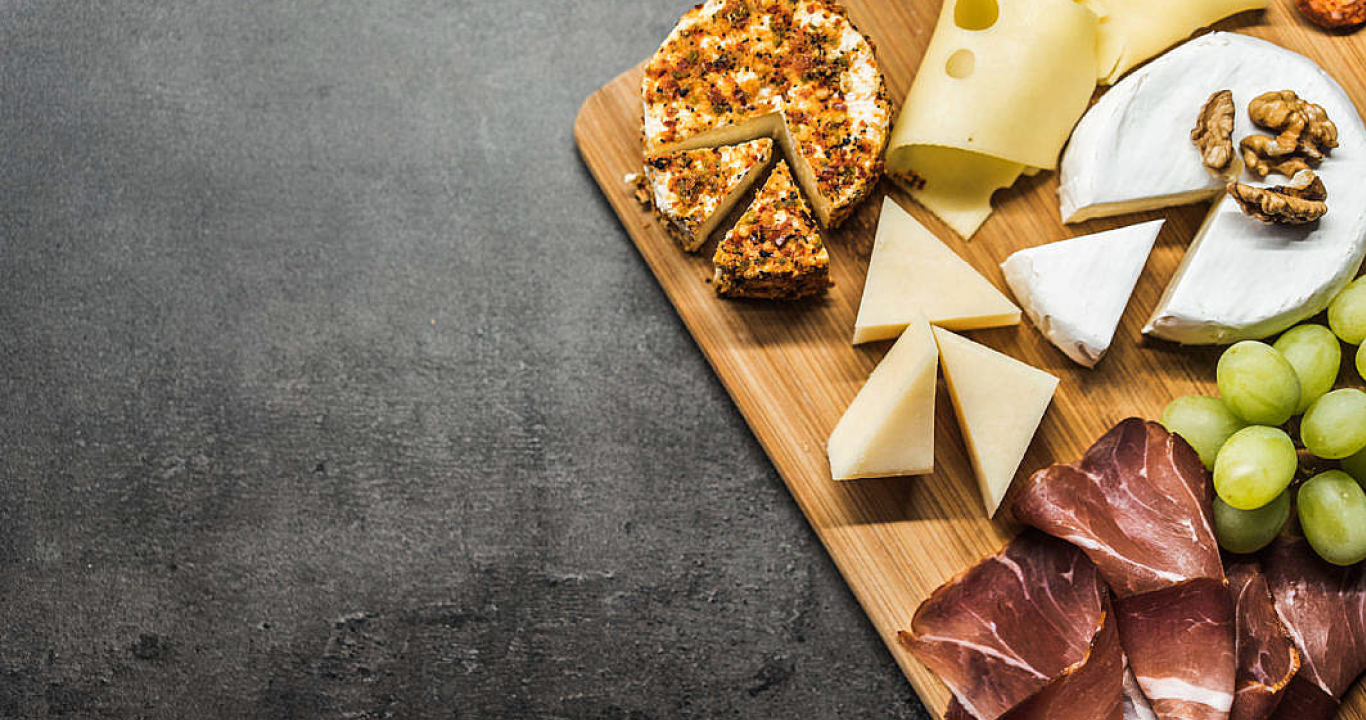
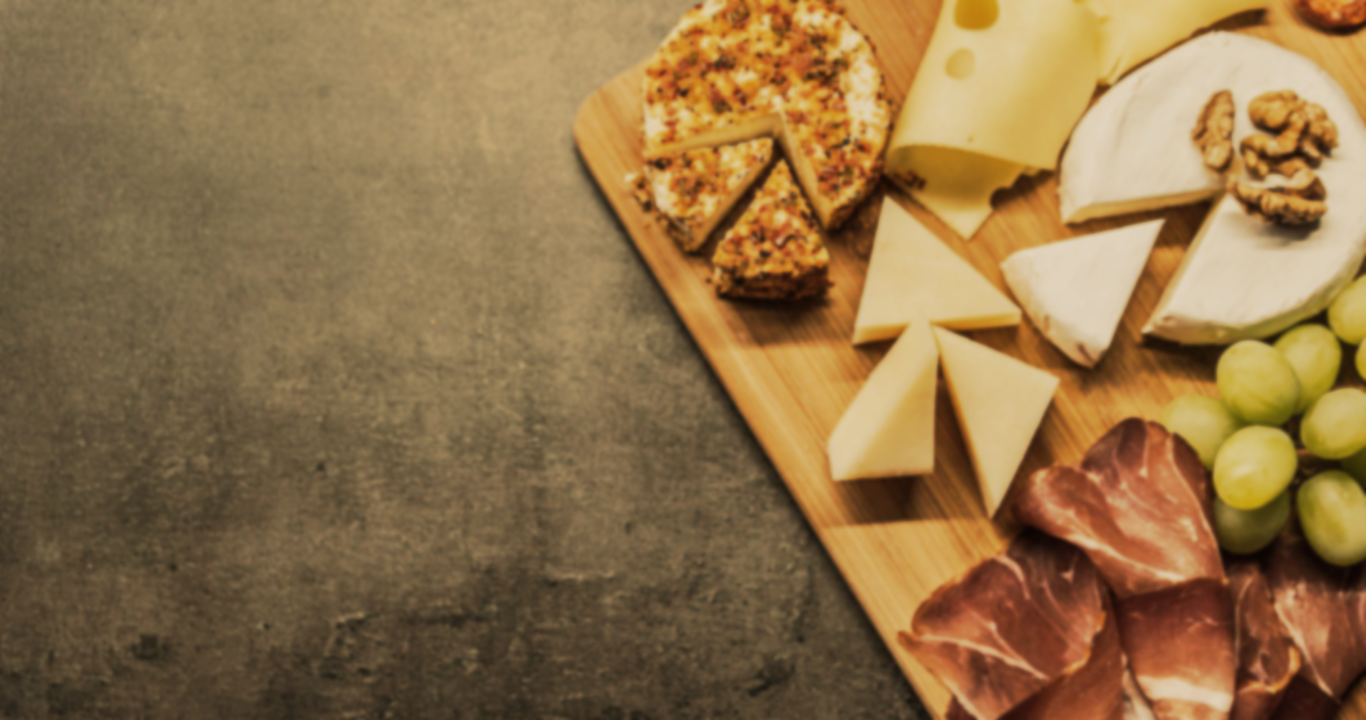
working on some styling while i work out some of the programming. Added a header/adjusted the background image color and file size.

diff --git a/assets/javascript/app.js b/assets/javascript/app.js
@@ -45,6 +45,69 @@ $(document).ready(function() {
                 {text: "Some Answer", isCorrect: false}
             ]
         },
+        { 	
+            question: "Some question",
+            answers: [
+                {text: "Some Answer", isCorrect: true},
+                {text: "Some Answer", isCorrect: false},
+                {text: "Some Answer", isCorrect: false},
+                {text: "Some Answer", isCorrect: false}
+            ]
+        },
+        { 	
+            question: "Some question",
+            answers: [
+                {text: "Some Answer", isCorrect: true},
+                {text: "Some Answer", isCorrect: false},
+                {text: "Some Answer", isCorrect: false},
+                {text: "Some Answer", isCorrect: false}
+            ]
+        },
+        { 	
+            question: "Some question",
+            answers: [
+                {text: "Some Answer", isCorrect: true},
+                {text: "Some Answer", isCorrect: false},
+                {text: "Some Answer", isCorrect: false},
+                {text: "Some Answer", isCorrect: false}
+            ]
+        },
+        { 	
+            question: "Some question",
+            answers: [
+                {text: "Some Answer", isCorrect: true},
+                {text: "Some Answer", isCorrect: false},
+                {text: "Some Answer", isCorrect: false},
+                {text: "Some Answer", isCorrect: false}
+            ]
+        },
+        { 	
+            question: "Some question",
+            answers: [
+                {text: "Some Answer", isCorrect: true},
+                {text: "Some Answer", isCorrect: false},
+                {text: "Some Answer", isCorrect: false},
+                {text: "Some Answer", isCorrect: false}
+            ]
+        },
+        { 	
+            question: "Some question",
+            answers: [
+                {text: "Some Answer", isCorrect: true},
+                {text: "Some Answer", isCorrect: false},
+                {text: "Some Answer", isCorrect: false},
+                {text: "Some Answer", isCorrect: false}
+            ]
+        },
+        { 	
+            question: "Some question",
+            answers: [
+                {text: "Some Answer", isCorrect: true},
+                {text: "Some Answer", isCorrect: false},
+                {text: "Some Answer", isCorrect: false},
+                {text: "Some Answer", isCorrect: false}
+            ]
+        },
     ]
 
     // HTML SET_UP Functions:
@@ -52,6 +115,19 @@ $(document).ready(function() {
     // generateHTML will set up the page
         // generateHTML will include the timer and the question for the game
         // this will also need the answers displayed and looped thru
+    function generateHTML() {
+        var timeRemainingText = "<p class='timerText text-center'>Time Remaining: <span id='timer'>20</span></p>";
+        var questionText = "<p class='questionText text-center'>" + questionArray[questionCounter].question + "</p>";
+        gameHTML = timeRemainingText + questionText;
+        $(".mainArea").html(gameHTML);
+        for (var i = 0; i < questionArray[questionCounter].answers.length; i++) {
+            var answerButton = $("<button>");
+            answerButton.addClass("answer btn btn-block text-center");
+            answerButton.attr("isCorrect", questionArray[questionCounter].answers[i].isCorrect);
+            answerButton.html(questionArray[questionCounter].answers[i].text);
+            $(".mainArea").append(answerButton);
+        }
+    }
 
      // WIN & LOSS Funcitons:
         // write functions for the outcomes of wins and losses
@@ -60,12 +136,50 @@ $(document).ready(function() {
         // these will also generate an image
         // these should also contain the setTimeOut for the pause between plays
         // there may have to be a seperate function for the timeout if player doesn't answer in time, thus adding to the unanswered count
+    function generateWin() {
+        correct++;
+        var correctAnswerText = "<p class='correctText text-center'>CORRECT!</p>";
+        var imgHTML = "<img class='center-block imgCorrect' src=''>";
+        gameHTML = correctAnswerText + imgHTML;
+        $(".mainArea").html(gameHTML);
+        setTimeout(nextDisplay, 3000);  
+    }
+
+    function generateLoss() {
+        incorrect++;
+        var wrongAnswerText = "<p class='wrongText text-center'>INCORRECT</p>";
+        var imgHTML = "<img class='center-block imgWrong' src=''>";
+        gameHTML = wrongAnswerText + imgHTML;
+        $(".mainArea").html(gameHTML);
+        setTimeout(nextDisplay, 3000); 
+    }
+    // TIMEOUT Function... for unanswered questions
+    function generateLossAtTimeOut() {
+		unanswered++;
+		var timeOutText = "<p class='timeOutText text-center'>TIME'S UP!</p>";
+		var imgHTML = "<img class='center-block imgWrong' src=''>";
+		gameHTML =  timeOutText + imgHTML;
+		$(".mainArea").html(gameHTML);
+		setTimeout(nextDisplay, 3000);  
+	}
 
     // TIMER Function:
         // write funciton for the timer
             // timer will need if/else for stopping, when player answers
             // timer will need reset or stop at loss
             // will need to generate text to html
+    function timer() {
+        clock = setInterval(twentySeconds, 1000);
+        function twentySeconds() {
+            if (counter === 0) {
+                clearInterval(clock);
+                generateLossAtTimeOut();
+            } else if (counter > 0) {
+                counter--;
+            }
+            $("#timer").html(counter);
+        }
+    }
 
     // BUTTON Functions:
         // will need seperate click event functions for startGame, answer, resetGame

diff --git a/assets/css/style.css b/assets/css/style.css
@@ -1,17 +1,35 @@
 * {
     font-family: 'Cabin', sans-serif;
+    
   }
   
-  body {
-    min-height: 100vh;
-    background-image: url("../images/backgound.png");
-    background-size: cover;
-    background-repeat: no-repeat;
-    color: black;
+body {
+min-height: 100vh;
+background-image: url("../images/backgound.png");
+background-size: cover;
+background-repeat: no-repeat;
+color: black;
+}
+
+.initialText {
+font-size: 20px;
+color: white;
+letter-spacing: 1.5px;
+}
+
+header {
+    padding: 70px 0px;
+    font-size: 85px;
+    color: white;
+    /* text-shadow: 3px 3px 7px #313131; */
+    letter-spacing: 2px;
   }
 
-  .initialText {
-	font-size: 20px;
-	color: white;
-	letter-spacing: 1.5px;
+#cheese {
+    border: white 2px solid;
+    text-align: center;
+    /* box-shadow: 3px 3px 7px #313131; */
+    background-color: none;
+
+
 }

diff --git a/index.html b/index.html
@@ -18,7 +18,7 @@
     <!-- header? footer? -->
     <header class="container">
         <div class="row">
-            <div class="col-md-6">Cheese Wiz</div>
+            <div class="col-md-6" id="cheese">Cheese qWiz</div>
             <div class="col-md-6"></div>
         </div>
     </header>
